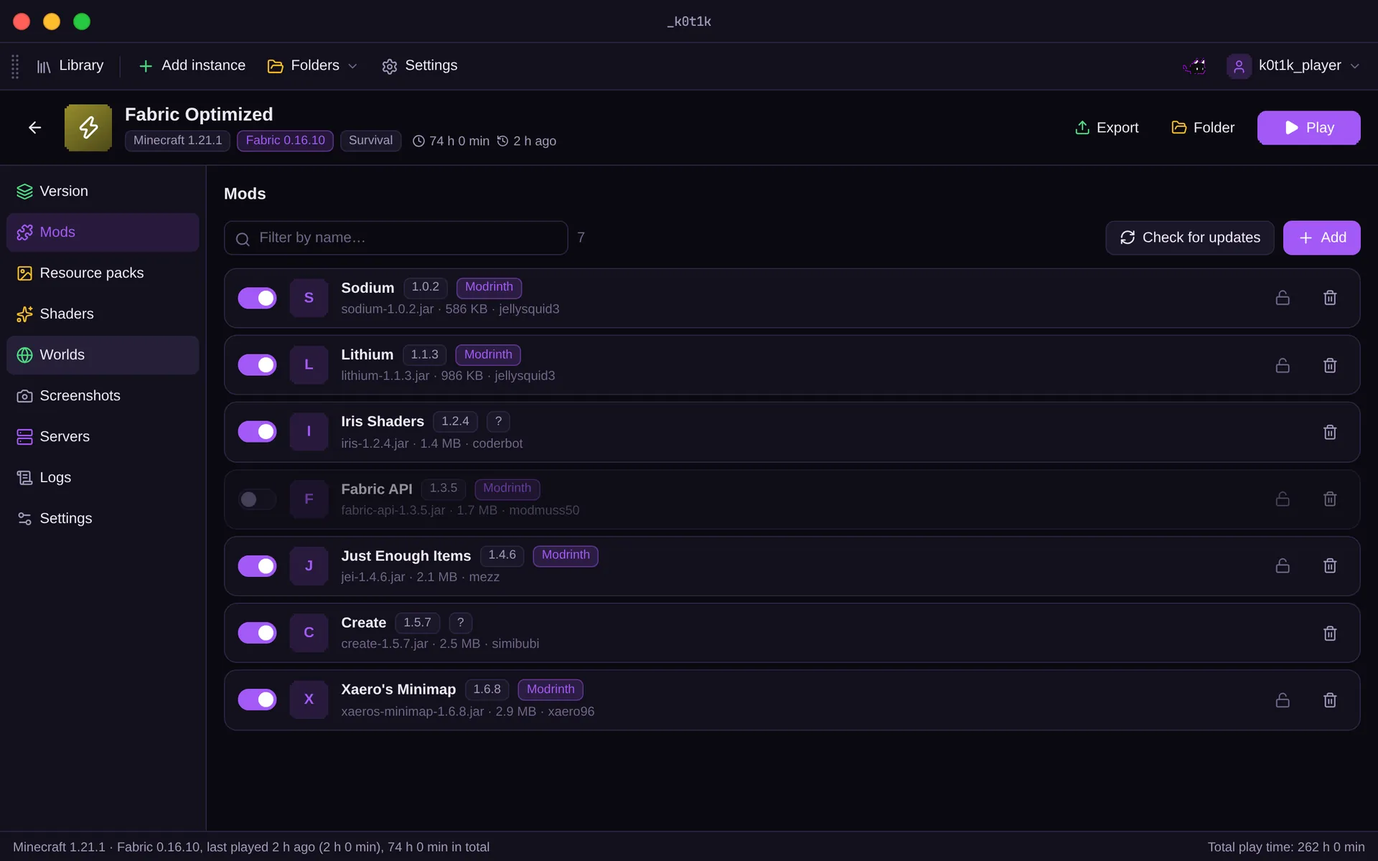
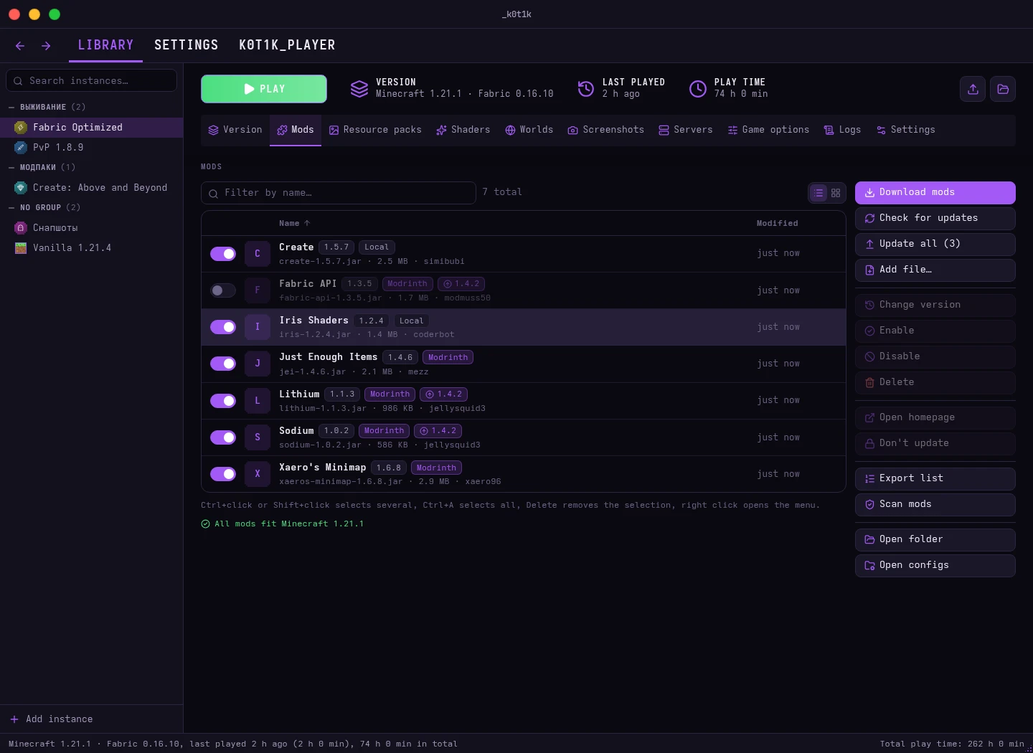
chore(site): refresh screenshots and current feature FAQ

diff --git a/site/index.html b/site/index.html
@@ -4,7 +4,7 @@
 <meta charset="utf-8">
 <meta name="viewport" content="width=device-width, initial-scale=1">
 <title>_k0t1k — Minecraft, your way</title>
-<meta name="description" content="Your Minecraft, your way. Windows, Linux and a macOS preview for Apple Silicon. Mods, modpacks, a Steam-like library and an optional in-game overlay.">
+<meta name="description" content="Your Minecraft, your way. Windows, Linux and macOS on Apple Silicon. Mods, modpacks, a Steam-like library and an optional in-game overlay.">
 <meta name="theme-color" content="#100c19">
 <meta name="color-scheme" content="dark light">
 <link rel="icon" type="image/png" href="assets/mascot.png">
@@ -261,7 +261,7 @@ dialog img { width: 100%; max-height: calc(94dvh - 90px); object-fit: contain; }
             <a class="btn" href="#download"><span class="en">Get _k0t1k</span><span class="ru">Скачать _k0t1k</span><span aria-hidden="true">↓</span></a>
             <a class="btn secondary" href="#overlay"><span class="en">Meet the overlay</span><span class="ru">Что за оверлей?</span></a>
           </div>
-          <p class="platform-note">Windows · Linux · macOS <span class="en">preview</span><span class="ru">превью</span> · <span class="en">English &amp; Russian</span><span class="ru">Русский и English</span></p>
+          <p class="platform-note">Windows · Linux · macOS · <span class="en">English &amp; Russian</span><span class="ru">Русский и English</span></p>
         </div>
       </div>
       <div class="hero-visual">
@@ -362,14 +362,14 @@ dialog img { width: 100%; max-height: calc(94dvh - 90px); object-fit: contain; }
 
   <section id="screens">
     <div class="wrap">
-      <div class="section-head"><p class="eyebrow"><span class="en">No mockups here</span><span class="ru">Без макетов</span></p><h2><span class="en">A closer look.</span><span class="ru">Посмотри поближе.</span></h2><p class="en">Real screenshots of the classic interface. Click to enlarge; Esc to close. The new Steam-like mode has a different library layout.</p><p class="ru">Реальные скриншоты классического интерфейса. Нажми, чтобы увеличить; Esc — закрыть. В новом Steam-like режиме библиотека устроена иначе.</p></div>
+      <div class="section-head"><p class="eyebrow"><span class="en">Inside the launcher</span><span class="ru">Внутри лаунчера</span></p><h2><span class="en">A closer look.</span><span class="ru">Посмотри поближе.</span></h2><p class="en">Screenshots of the current launcher frontend with demo data: Steam-like library, mods, modpacks and settings. Click to enlarge; Esc to close.</p><p class="ru">Скриншоты актуального фронтенда лаунчера с демонстрационными данными: библиотека Steam-like, моды, сборки и настройки. Нажми, чтобы увеличить; Esc — закрыть.</p></div>
       <div class="gallery">
-        <button class="shot" type="button" data-full="assets/screens/library.webp" data-alt-en="Classic library with instances organized into groups" data-alt-ru="Классическая библиотека с экземплярами по группам"><img src="assets/screens/library.webp" width="1920" height="1200" loading="lazy" alt="Classic library with instances organized into groups"><span class="shot-caption"><span class="en">Your collection · Classic</span><span class="ru">Твоя коллекция · Classic</span></span></button>
-        <button class="shot" type="button" data-full="assets/screens/mods.webp" data-alt-en="Installed mods with individual enable and disable toggles" data-alt-ru="Установленные моды с переключателями включения"><img src="assets/screens/mods.webp" width="1920" height="1200" loading="lazy" alt="Installed mods with individual enable and disable toggles"><span class="shot-caption"><span class="en">Mods, under control</span><span class="ru">Моды под контролем</span></span></button>
-        <button class="shot" type="button" data-full="assets/screens/modpacks.webp" data-alt-en="Modrinth modpack catalog in the new instance dialog" data-alt-ru="Каталог модпаков Modrinth в окне создания экземпляра"><img src="assets/screens/modpacks.webp" width="1920" height="1200" loading="lazy" alt="Modrinth modpack catalog in the new instance dialog"><span class="shot-caption"><span class="en">Find your next modpack</span><span class="ru">Найди следующую сборку</span></span></button>
-        <button class="shot" type="button" data-full="assets/screens/themes.webp" data-alt-en="Appearance settings with the theme picker" data-alt-ru="Настройки внешнего вида с выбором темы"><img src="assets/screens/themes.webp" width="1920" height="1200" loading="lazy" alt="Appearance settings with the theme picker"><span class="shot-caption"><span class="en">A theme for your mood</span><span class="ru">Тема под настроение</span></span></button>
-        <button class="shot" type="button" data-full="assets/screens/mint-theme.webp" data-alt-en="Classic library in the green Mint theme" data-alt-ru="Классическая библиотека в зелёной теме Mint"><img src="assets/screens/mint-theme.webp" width="1920" height="1200" loading="lazy" alt="Classic library in the green Mint theme"><span class="shot-caption"><span class="en">Not just purple · Mint</span><span class="ru">Не только фиолетовый · Mint</span></span></button>
-        <button class="shot" type="button" data-full="assets/screens/russian.webp" data-alt-en="Launcher settings in Russian" data-alt-ru="Настройки лаунчера на русском языке"><img src="assets/screens/russian.webp" width="1920" height="1200" loading="lazy" alt="Launcher settings in Russian"><span class="shot-caption"><span class="en">Feels at home · Russian</span><span class="ru">На своём языке · Русский</span></span></button>
+        <button class="shot" type="button" data-full="assets/screens/library.webp" data-alt-en="Steam-like library with grouped instances and the selected instance's mod list" data-alt-ru="Библиотека Steam-like с группами экземпляров и модами выбранного экземпляра"><img src="assets/screens/library.webp" width="1440" height="1050" loading="lazy" alt="Steam-like library with grouped instances and the selected instance's mod list"><span class="shot-caption"><span class="en">Your collection · Steam-like</span><span class="ru">Твоя коллекция · Steam-like</span></span></button>
+        <button class="shot" type="button" data-full="assets/screens/mods.webp" data-alt-en="Installed mods with enable switches and available version updates" data-alt-ru="Установленные моды с переключателями и доступными обновлениями версий"><img src="assets/screens/mods.webp" width="1440" height="1050" loading="lazy" alt="Installed mods with enable switches and available version updates"><span class="shot-caption"><span class="en">Mods, under control</span><span class="ru">Моды под контролем</span></span></button>
+        <button class="shot" type="button" data-full="assets/screens/modpacks.webp" data-alt-en="Modrinth catalog with a selected modpack and version picker" data-alt-ru="Каталог Modrinth с выбранной сборкой и списком её версий"><img src="assets/screens/modpacks.webp" width="1440" height="1050" loading="lazy" alt="Modrinth catalog with a selected modpack and version picker"><span class="shot-caption"><span class="en">Find your next modpack</span><span class="ru">Найди следующую сборку</span></span></button>
+        <button class="shot" type="button" data-full="assets/screens/themes.webp" data-alt-en="Appearance settings with interface mode, language, scale and themes" data-alt-ru="Настройки внешнего вида: режим интерфейса, язык, масштаб и темы"><img src="assets/screens/themes.webp" width="1440" height="1050" loading="lazy" alt="Appearance settings with interface mode, language, scale and themes"><span class="shot-caption"><span class="en">A theme for your mood</span><span class="ru">Тема под настроение</span></span></button>
+        <button class="shot" type="button" data-full="assets/screens/mint-theme.webp" data-alt-en="Steam-like library and mod list in the green Mint theme" data-alt-ru="Библиотека Steam-like и список модов в зелёной теме Mint"><img src="assets/screens/mint-theme.webp" width="1440" height="1050" loading="lazy" alt="Steam-like library and mod list in the green Mint theme"><span class="shot-caption"><span class="en">Not just purple · Mint</span><span class="ru">Не только фиолетовый · Mint</span></span></button>
+        <button class="shot" type="button" data-full="assets/screens/russian.webp" data-alt-en="Current launcher appearance settings in Russian" data-alt-ru="Актуальные настройки внешнего вида лаунчера на русском языке"><img src="assets/screens/russian.webp" width="1440" height="1050" loading="lazy" alt="Current launcher appearance settings in Russian"><span class="shot-caption"><span class="en">Feels at home · Russian</span><span class="ru">На своём языке · Русский</span></span></button>
       </div>
     </div>
   </section>
@@ -378,11 +378,12 @@ dialog img { width: 100%; max-height: calc(94dvh - 90px); object-fit: contain; }
     <div class="wrap faq-grid">
       <div class="section-head"><p class="eyebrow">FAQ</p><h2><span class="en">Before you<br>jump in.</span><span class="ru">Перед тем<br>как начать.</span></h2></div>
       <div>
-        <details><summary><span class="en">Does it work on Linux?</span><span class="ru">А на Linux работает?</span></summary><p class="en">Yes. There is an x86_64 AppImage for Ubuntu 22.04 or newer and similar systems. Make the downloaded file executable and run it. Windows needs Windows 10 or newer with WebView2.</p><p class="ru">Да. Есть AppImage для x86_64: Ubuntu 22.04 или новее и похожие системы. Сделай скачанный файл исполняемым и запусти. Для Windows нужна Windows 10 или новее с WebView2.</p></details>
-        <details><summary><span class="en">What about macOS?</span><span class="ru">А что с macOS?</span></summary><p class="en">The native preview targets Apple Silicon (ARM64). The DMG link appears only when its file is attached to the latest release; check the release notes for macOS requirements. Mac version 0.2.0 needs a one-time manual install of 0.2.1 or newer: its built-in updater is disabled. Starting with 0.2.1, future updates use signed full-app bundles installed from inside the launcher. The preview is ad-hoc signed, not Developer ID signed or notarized by Apple; macOS may block it. Do not disable Gatekeeper or remove quarantine attributes.</p><p class="ru">Нативное превью предназначено для Apple Silicon (ARM64). Ссылка на DMG появляется только после добавления файла в последний релиз; требования к macOS смотри в описании сборки. В Mac-версии 0.2.0 встроенное обновление отключено: один раз установи 0.2.1 или новее вручную. Начиная с 0.2.1, дальнейшие обновления устанавливаются внутри лаунчера из подписанного полного пакета приложения. Превью имеет ad-hoc подпись, без Developer ID и notarization Apple: macOS может заблокировать запуск. Не отключай Gatekeeper и не удаляй атрибуты quarantine.</p></details>
-        <details><summary><span class="en">Do I need to find Java myself?</span><span class="ru">Java нужно искать самому?</span></summary><p class="en">Not with automatic Java enabled. The launcher selects and downloads a runtime for your Minecraft version. The first game launch also downloads game files and assets, so allow some time for it.</p><p class="ru">С включённым автовыбором — нет. Лаунчер подбирает и скачивает Java под версию Minecraft. Первый запуск также загружает игру и ресурсы, поэтому ему понадобится время.</p></details>
-        <details><summary><span class="en">Is the overlay required?</span><span class="ru">Оверлей обязателен?</span></summary><p class="en">No. It is off by default. Enable it in Settings for Minecraft 1.8 or newer, then restart the game. Before enabling it, read the chat-history notice above: private messages are saved too.</p><p class="ru">Нет, по умолчанию он выключен. Включи его в настройках для Minecraft 1.8 или новее и перезапусти игру. Перед включением прочитай предупреждение об истории чата выше: личные сообщения тоже сохраняются.</p></details>
-        <details><summary><span class="en">What if something breaks?</span><span class="ru">Что делать, если что-то сломалось?</span></summary><p class="en">This is an open beta. <a href="https://discord.gg/zxnMAfUvJ" rel="noopener">Tell us on Discord</a> or <a href="https://github.com/hhhhhffd/_k0t1k/issues">open a GitHub issue</a>. Check logs for private information before sharing them.</p><p class="ru">Это открытая бета. <a href="https://discord.gg/zxnMAfUvJ" rel="noopener">Расскажи в Discord</a> или <a href="https://github.com/hhhhhffd/_k0t1k/issues">создай issue на GitHub</a>. Перед отправкой проверь логи на личные данные.</p></details>
+        <details><summary><span class="en">Which systems does it run on?</span><span class="ru">На каких системах работает?</span></summary><p class="en">Windows 10 or newer with WebView2; Linux x86_64, including Ubuntu 22.04 or newer; and macOS 11.0 or newer on Apple Silicon (ARM64). Download the .exe, AppImage or .dmg below. On Linux, make the AppImage executable before running it.</p><p class="ru">Windows 10 или новее с WebView2; Linux x86_64, включая Ubuntu 22.04 или новее; macOS 11.0 или новее на Apple Silicon (ARM64). Ниже доступны .exe, AppImage и .dmg. На Linux перед запуском сделай AppImage исполняемым.</p></details>
+        <details><summary><span class="en">Do I need to install Java separately?</span><span class="ru">Java нужно устанавливать отдельно?</span></summary><p class="en">With automatic selection and download enabled, the launcher finds a suitable Java runtime for your Minecraft version and downloads it when needed. You can also choose an installed Java manually in Settings. The first game launch downloads Minecraft files and assets too.</p><p class="ru">С включёнными автовыбором и автозагрузкой лаунчер подбирает Java под версию Minecraft и при необходимости скачивает её. В настройках можно вручную указать уже установленную Java. Первый запуск также загружает файлы Minecraft и ресурсы игры.</p></details>
+        <details><summary><span class="en">What if a mod is missing dependencies?</span><span class="ru">Что делать, если моду не хватает зависимостей?</span></summary><p class="en">Use Download dependencies in the warning when adding local JARs, before launch or in the mod list. The launcher searches Modrinth and verifies Minecraft, loader and required mod versions. Existing files are kept; requirements it cannot safely resolve need manual attention. After fixing them, click Play yourself.</p><p class="ru">Нажми «Скачать зависимости» в предупреждении при добавлении локальных JAR, перед запуском или в списке модов. Лаунчер ищет их на Modrinth и проверяет Minecraft, загрузчик и требуемые версии модов. Существующие файлы сохраняются; если безопасно подобрать зависимость не удалось, её нужно установить вручную. После исправления нажми «Играть» самостоятельно.</p></details>
+        <details><summary><span class="en">How do launcher updates work?</span><span class="ru">Как обновляется лаунчер?</span></summary><p class="en">The built-in updater downloads and verifies signed updates on Windows, Linux and macOS, then restarts the launcher. Finish running games and downloads first. The launcher must be in a writable folder; on macOS, install the app from the DMG before updating. Update signatures are separate from Apple notarization: the Mac app is ad-hoc signed, without Developer ID or notarization.</p><p class="ru">Встроенное обновление скачивает и проверяет подписанные пакеты на Windows, Linux и macOS, затем перезапускает лаунчер. Сначала заверши игры и загрузки. Папка лаунчера должна быть доступна для записи; на macOS установи приложение из DMG перед обновлением. Подпись обновления не заменяет проверку Apple: Mac-приложение имеет ad-hoc подпись, без Developer ID и notarization.</p></details>
+        <details><summary><span class="en">What does the overlay do, and is it required?</span><span class="ru">Что умеет оверлей и обязателен ли он?</span></summary><p class="en">It is optional and off by default. On Minecraft 1.8 or newer, enable it in Settings and restart the game; Shift+Tab opens chat history, notes and FPS. Chat history is saved locally, including private messages, so check it before sharing files.</p><p class="ru">Он необязателен и по умолчанию выключен. Для Minecraft 1.8 или новее включи его в настройках и перезапусти игру: Shift+Tab открывает историю чата, заметки и FPS. История чата сохраняется локально, включая личные сообщения, поэтому проверяй её перед отправкой файлов.</p></details>
+        <details><summary><span class="en">Where do I report a problem?</span><span class="ru">Куда сообщить об ошибке?</span></summary><p class="en"><a href="https://discord.gg/zxnMAfUvJ" rel="noopener">Write on Discord</a> or <a href="https://github.com/hhhhhffd/_k0t1k/issues">open a GitHub issue</a>. Include your operating system, launcher and Minecraft versions, loader and steps to reproduce the problem. Check logs and screenshots for private information before attaching them.</p><p class="ru"><a href="https://discord.gg/zxnMAfUvJ" rel="noopener">Напиши в Discord</a> или <a href="https://github.com/hhhhhffd/_k0t1k/issues">создай issue на GitHub</a>. Укажи систему, версии лаунчера и Minecraft, загрузчик и действия, после которых возникает ошибка. Перед отправкой проверь логи и скриншоты на личные данные.</p></details>
       </div>
     </div>
   </section>
@@ -393,7 +394,7 @@ dialog img { width: 100%; max-height: calc(94dvh - 90px); object-fit: contain; }
       <div class="download-grid">
         <article class="download-card"><h3>Windows</h3><p><span class="en">Portable executable · .exe</span><span class="ru">Портативный исполняемый файл · .exe</span></p><a class="btn" data-download="_k0t1k.exe" href="https://github.com/hhhhhffd/_k0t1k/releases/latest/download/_k0t1k.exe"><span class="en">Download for Windows ↓</span><span class="ru">Скачать для Windows ↓</span><span class="dl-size" data-asset="_k0t1k.exe"></span></a><p class="requirement"><span class="en">Windows 10 or newer with WebView2. Give the launcher its own folder for game files and settings.</span><span class="ru">Windows 10 или новее с WebView2. Выдели лаунчеру свою папку для игры и настроек.</span></p><p class="asset-missing" data-missing="_k0t1k.exe" hidden><span class="en">This file is not listed in the latest release. The button opens release details instead.</span><span class="ru">В последнем релизе нет этого файла. Кнопка откроет страницу релиза.</span></p></article>
         <article class="download-card"><h3>Linux</h3><p>AppImage · x86_64</p><a class="btn secondary" data-download="_k0t1k-x86_64.AppImage" href="https://github.com/hhhhhffd/_k0t1k/releases/latest/download/_k0t1k-x86_64.AppImage"><span class="en">Download for Linux ↓</span><span class="ru">Скачать для Linux ↓</span><span class="dl-size" data-asset="_k0t1k-x86_64.AppImage"></span></a><p class="requirement"><span class="en">Ubuntu 22.04 or newer and similar systems. Make the AppImage executable before running it.</span><span class="ru">Ubuntu 22.04 или новее и похожие системы. Перед запуском сделай AppImage исполняемым.</span></p><p class="asset-missing" data-missing="_k0t1k-x86_64.AppImage" hidden><span class="en">This file is not listed in the latest release. The button opens release details instead.</span><span class="ru">В последнем релизе нет этого файла. Кнопка откроет страницу релиза.</span></p></article>
-        <article class="download-card"><h3>macOS <span class="tag">Preview</span></h3><p><span class="en">Apple Silicon (ARM64) · .dmg</span><span class="ru">Apple Silicon (ARM64) · .dmg</span></p><a class="btn secondary" data-download="_k0t1k-macos.dmg" href="https://github.com/hhhhhffd/_k0t1k/releases/latest"><span class="en">macOS release ↗</span><span class="ru">Релиз для macOS ↗</span><span class="dl-size" data-asset="_k0t1k-macos.dmg"></span></a><p class="requirement"><span class="en">Unnotarized, ad-hoc signed preview. Check release notes for macOS requirements. On Mac 0.2.0, install 0.2.1 or newer manually once; subsequent signed full-app updates install inside the launcher.</span><span class="ru">Превью с ad-hoc подписью, без notarization Apple. Требования к macOS — в описании сборки. С Mac-версии 0.2.0 один раз установи 0.2.1 или новее вручную; дальше подписанные обновления всего приложения устанавливаются внутри лаунчера.</span></p><p class="asset-missing" data-missing="_k0t1k-macos.dmg"><span class="en">The macOS download appears here once its build is published. Until then, the button opens GitHub Releases.</span><span class="ru">Ссылка на DMG появится после публикации сборки. Пока кнопка открывает GitHub Releases.</span></p></article>
+        <article class="download-card"><h3>macOS</h3><p><span class="en">Apple Silicon (ARM64) · .dmg</span><span class="ru">Apple Silicon (ARM64) · .dmg</span></p><a class="btn secondary" data-download="_k0t1k-macos.dmg" href="https://github.com/hhhhhffd/_k0t1k/releases/latest/download/_k0t1k-macos.dmg"><span class="en">Download for macOS ↓</span><span class="ru">Скачать для macOS ↓</span><span class="dl-size" data-asset="_k0t1k-macos.dmg"></span></a><p class="requirement"><span class="en">macOS 11.0 or newer on Apple Silicon. Ad-hoc signed, without Developer ID or Apple notarization; macOS may block opening it. For a trusted download, follow <a href="https://support.apple.com/en-us/102445">Apple’s per-app opening instructions</a>; do not bypass malware or damaged-app warnings. Install the app in a writable Applications folder to use built-in updates.</span><span class="ru">macOS 11.0 или новее на Apple Silicon. Ad-hoc подпись, без Developer ID и notarization Apple: macOS может заблокировать запуск. Для доверенной загрузки используй <a href="https://support.apple.com/ru-ru/102445">инструкцию Apple по открытию отдельного приложения</a>; не обходи предупреждения о вредоносном или повреждённом приложении. Для встроенных обновлений установи приложение в доступную для записи папку Applications.</span></p><p class="asset-missing" data-missing="_k0t1k-macos.dmg" hidden><span class="en">This file is not listed in the latest release. The button opens release details instead.</span><span class="ru">В последнем релизе нет этого файла. Кнопка откроет страницу релиза.</span></p></article>
       </div>
       <p class="release-line" role="status"><span class="en">Open beta</span><span class="ru">Открытая бета</span><span id="release-version"></span> · <span id="release-fallback"><span class="en">Version and file sizes on </span><span class="ru">Версия и размеры файлов — на </span></span><a href="https://github.com/hhhhhffd/_k0t1k/releases/latest"><span class="en">GitHub Releases ↗</span><span class="ru">GitHub Releases ↗</span></a></p>
       <div class="download-bottom"><p><span class="en">Beta means bugs can happen. <a href="https://discord.gg/zxnMAfUvJ" rel="noopener">Help us find them on Discord ↗</a></span><span class="ru">В бете бывают баги. <a href="https://discord.gg/zxnMAfUvJ" rel="noopener">Помоги найти их в Discord ↗</a></span></p><a href="https://github.com/hhhhhffd/_k0t1k"><span class="en">Explore the source ↗</span><span class="ru">Посмотреть исходники ↗</span></a></div>
@@ -412,8 +413,8 @@ dialog img { width: 100%; max-height: calc(94dvh - 90px); object-fit: contain; }
   var dialog = document.getElementById('lb');
   var current = null;
   var descriptions = {
-    en: 'Your Minecraft, your way. Windows, Linux and a macOS preview for Apple Silicon. Mods, modpacks, a Steam-like library and an optional in-game overlay.',
-    ru: 'Minecraft по-твоему. Windows, Linux и превью для macOS на Apple Silicon. Моды, сборки, библиотека в духе Steam и внутриигровой оверлей по желанию.'
+    en: 'Your Minecraft, your way. Windows, Linux and macOS on Apple Silicon. Mods, modpacks, a Steam-like library and an optional in-game overlay.',
+    ru: 'Minecraft по-твоему. Windows, Linux и macOS на Apple Silicon. Моды, сборки, библиотека в духе Steam и внутриигровой оверлей по желанию.'
   };
 
   function fillLightbox() {
